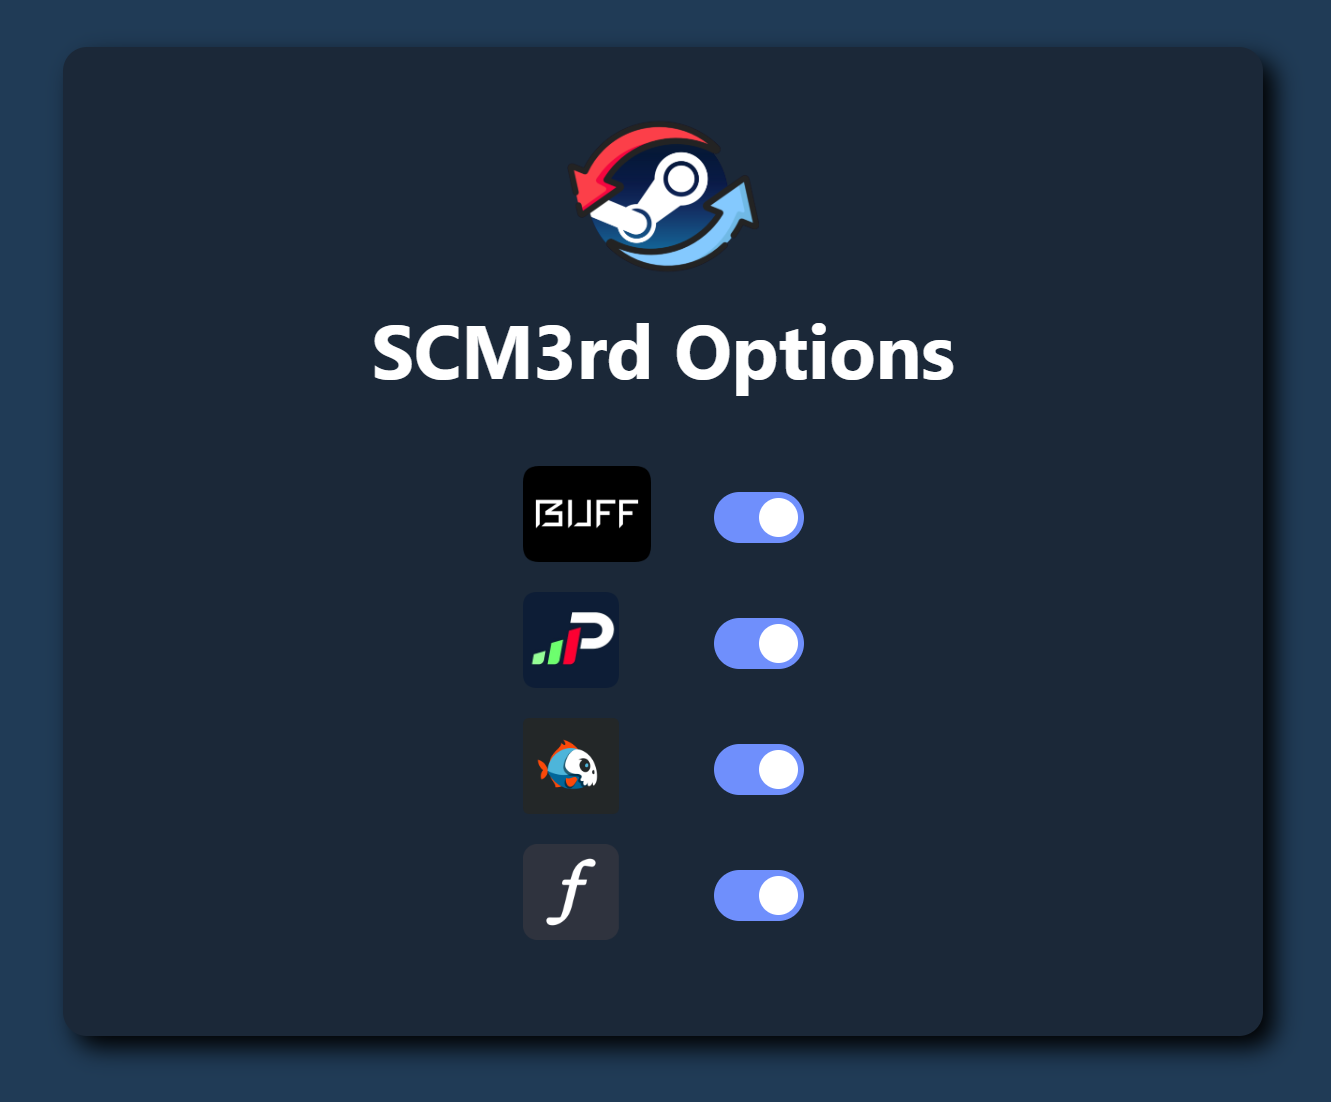
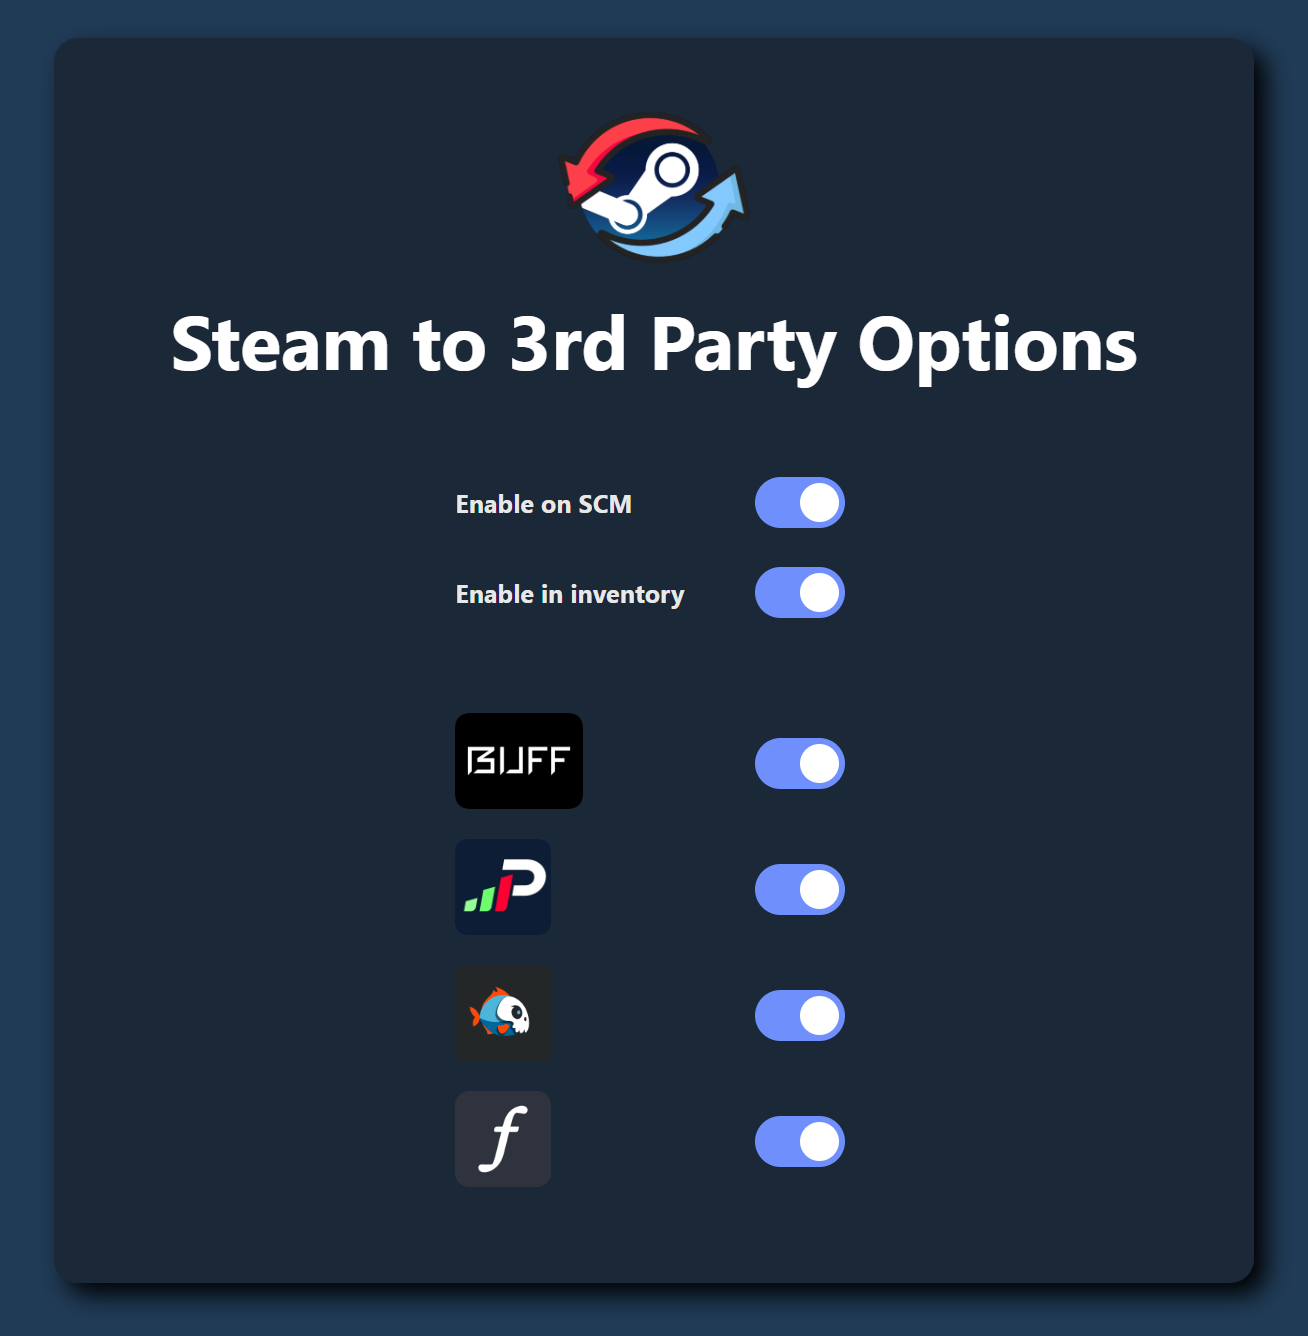
Changed files image for readme

diff --git a/CHANGELOG.MD b/CHANGELOG.MD
@@ -11,8 +11,8 @@ Support of :
 
 ### Added
 
-Setting to enable/disable extension on Steam Community Market
-Setting to enable/disable extension in Steam inventory
+Setting to enable/disable extension on Steam Community Market.  
+Setting to enable/disable extension in Steam inventory.
 
 ## [1.1.3] 25/01/2026
 
